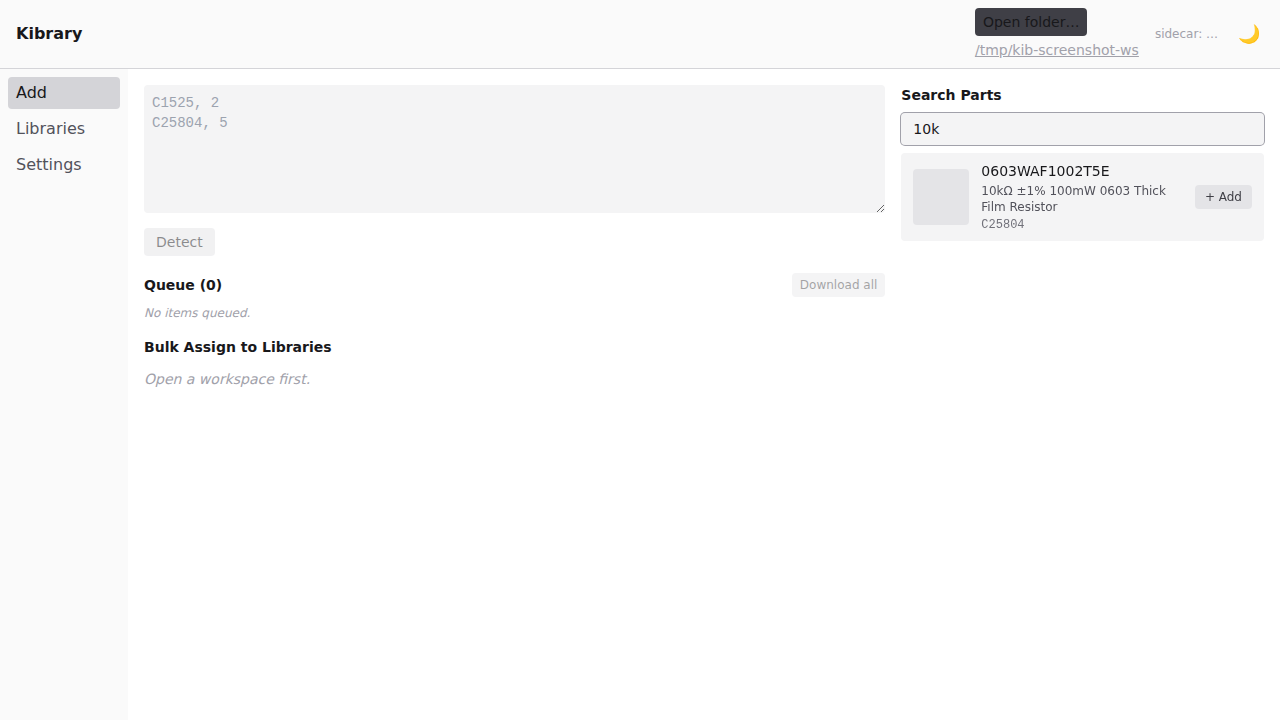
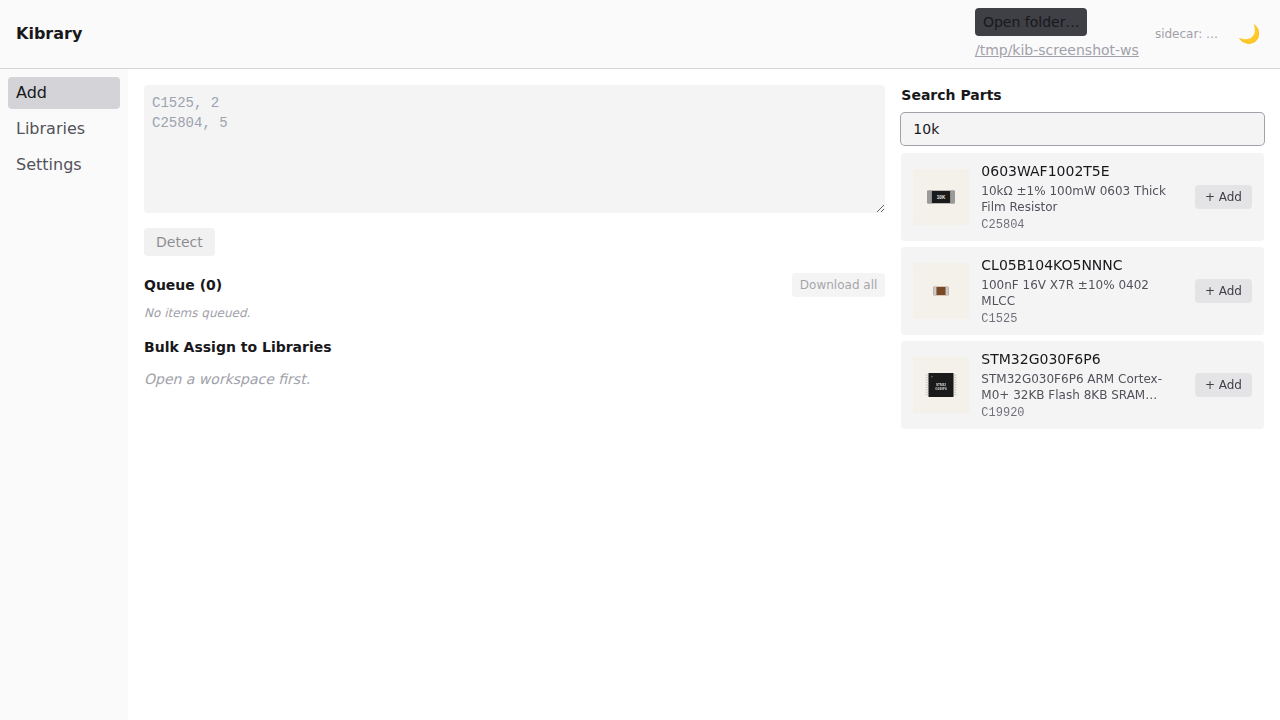
docs(screenshots): show real fake-photo thumbnails in README Add room
Playwright now intercepts /api/kibrary/parts/<LCSC>/photo at the network
layer and serves a hand-drawn SVG matching the actual product (yellow
0603 resistor for C25804, brown 0402 MLCC for C1525, TSSOP-20 STM32 for
C19920). Without this the screenshot showed the empty placeholder
because the fake API key 401s against the real endpoint.

Also relax the search.query mock to always return the full result set
when text is typed, so the README screenshot shows three diverse
thumbnails side by side rather than narrowing to a single hit.

diff --git a/playwright/screenshot.spec.ts b/playwright/screenshot.spec.ts
@@ -103,12 +103,10 @@ const tauriInitScript = `
           in_stock: true,
         },
       ];
-      // Filter by query keyword if any; otherwise return all 3
-      if (!q) return { results: all };
-      const hits = all.filter((p) =>
-        (p.lcsc + ' ' + p.mpn + ' ' + p.description).toLowerCase().includes(q),
-      );
-      return { results: hits };
+      // Screenshot fixture: return the full diverse result set whenever any
+      // text is typed, so the screenshot shows resistor + cap + MCU thumbnails
+      // side by side rather than narrowing to a single hit.
+      return { results: all };
     },
   };
 
@@ -203,11 +201,86 @@ const tauriInitScript = `
 })();
 `;
 
+// ---------------------------------------------------------------------------
+// Per-LCSC fake product photos (SVG, served by Playwright's network mock).
+//
+// SearchPanel's <AuthedThumbnail> calls
+//   fetch('https://search.raph.io/api/kibrary/parts/<LCSC>/photo',
+//         { headers: { Authorization: 'Bearer <key>' } })
+// and renders the response as a blob URL. With a fake API key the real server
+// would 401, so we intercept the request below and return a hand-drawn SVG
+// that resembles the actual JLCPCB product photo for that LCSC code.
+// ---------------------------------------------------------------------------
+const fakePhotoSvgs: Record<string, string> = {
+  // C25804 — UNI-ROYAL 10kΩ 0603 thick-film resistor (small beige rectangle
+  // with black ends + "10K" silkscreen).
+  C25804: `<svg xmlns="http://www.w3.org/2000/svg" width="160" height="160" viewBox="0 0 160 160">
+    <rect width="160" height="160" fill="#f4f1ea"/>
+    <rect x="40" y="62" width="80" height="36" rx="3" fill="#1a1a1a"/>
+    <rect x="40" y="62" width="14" height="36" fill="#9a9a9a"/>
+    <rect x="106" y="62" width="14" height="36" fill="#9a9a9a"/>
+    <text x="80" y="86" text-anchor="middle" fill="#f4f1ea" font-family="Arial,sans-serif" font-weight="700" font-size="13">10K</text>
+  </svg>`,
+
+  // C1525 — Samsung CL05B104KO5NNNC 100nF 0402 MLCC (small brown rectangle).
+  C1525: `<svg xmlns="http://www.w3.org/2000/svg" width="160" height="160" viewBox="0 0 160 160">
+    <rect width="160" height="160" fill="#f4f1ea"/>
+    <rect x="58" y="68" width="44" height="24" rx="2" fill="#7a4a25"/>
+    <rect x="58" y="68" width="9" height="24" fill="#c9c9c9"/>
+    <rect x="93" y="68" width="9" height="24" fill="#c9c9c9"/>
+  </svg>`,
+
+  // C19920 — STMicro STM32G030F6P6, TSSOP-20 (black SOIC body with pins).
+  C19920: `<svg xmlns="http://www.w3.org/2000/svg" width="160" height="160" viewBox="0 0 160 160">
+    <rect width="160" height="160" fill="#f4f1ea"/>
+    <rect x="44" y="46" width="72" height="68" rx="2" fill="#1a1a1a"/>
+    <circle cx="54" cy="56" r="2.5" fill="#666"/>
+    <text x="80" y="82" text-anchor="middle" fill="#dcdcdc" font-family="Arial,sans-serif" font-weight="600" font-size="9">STM32</text>
+    <text x="80" y="94" text-anchor="middle" fill="#dcdcdc" font-family="Arial,sans-serif" font-weight="600" font-size="9">G030F6</text>
+    <g fill="#c9c9c9">
+      <rect x="36" y="50" width="8" height="3"/>
+      <rect x="36" y="57" width="8" height="3"/>
+      <rect x="36" y="64" width="8" height="3"/>
+      <rect x="36" y="71" width="8" height="3"/>
+      <rect x="36" y="78" width="8" height="3"/>
+      <rect x="36" y="85" width="8" height="3"/>
+      <rect x="36" y="92" width="8" height="3"/>
+      <rect x="36" y="99" width="8" height="3"/>
+      <rect x="36" y="106" width="8" height="3"/>
+      <rect x="116" y="50" width="8" height="3"/>
+      <rect x="116" y="57" width="8" height="3"/>
+      <rect x="116" y="64" width="8" height="3"/>
+      <rect x="116" y="71" width="8" height="3"/>
+      <rect x="116" y="78" width="8" height="3"/>
+      <rect x="116" y="85" width="8" height="3"/>
+      <rect x="116" y="92" width="8" height="3"/>
+      <rect x="116" y="99" width="8" height="3"/>
+      <rect x="116" y="106" width="8" height="3"/>
+    </g>
+  </svg>`,
+};
+
+function fallbackPhotoSvg(lcsc: string): string {
+  return `<svg xmlns="http://www.w3.org/2000/svg" width="160" height="160" viewBox="0 0 160 160">
+    <rect width="160" height="160" fill="#f4f1ea"/>
+    <text x="80" y="86" text-anchor="middle" fill="#666" font-family="Arial,sans-serif" font-size="14">${lcsc}</text>
+  </svg>`;
+}
+
 test('snapshot route', async ({ page }) => {
   fs.mkdirSync(outDir, { recursive: true });
 
   // Inject the Tauri mock before any page scripts execute.
   await page.addInitScript({ content: tauriInitScript });
+
+  // Intercept thumbnail HTTP requests and serve a hand-drawn SVG matching
+  // the LCSC code, so screenshots look polished without needing a real key.
+  await page.route('**/api/kibrary/parts/*/photo', async (route, request) => {
+    const m = request.url().match(/\/parts\/([^/?]+)\/photo/);
+    const lcsc = m?.[1] ?? 'C0';
+    const svg = fakePhotoSvgs[lcsc] ?? fallbackPhotoSvg(lcsc);
+    await route.fulfill({ status: 200, contentType: 'image/svg+xml', body: svg });
+  });
 
   await page.goto(route);
   await page.waitForLoadState('networkidle');
